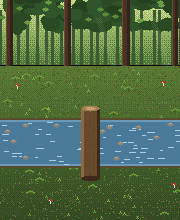
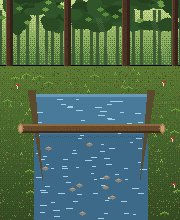
Fight the bridge duel with staffs, both on the log
The duel node can set its fighters' abilities and look; the bridge gives
Robin a staff (strike, staff sweep, defend) and puts him in the front row.
The brook backdrop is redrawn side-on with the log under both fighters, and
battle scenery rises with the units on short phones. Version 0.2.3 (code 7).

Claude-Session: https://claude.ai/code/session_01MmzGffP5XZa1E7ay26sSJ4

diff --git a/tools/make_scenery.py b/tools/make_scenery.py
@@ -486,34 +486,44 @@ def bd_sheriffs_toll_bridge():
 
 
 def bd_brook_bridge():
-    """Where Robin met Little John: a log over a woodland brook."""
+    """Where Robin met Little John: a single great log over a woodland brook, seen from the side.
+    The duellists stand on the log; its top is where the battle screen puts their feet."""
     rng = random.Random(17)
     c = bd_sherwood_edge()
-    # a brook running across the ground, crossed by a single great log
-    for y in range(118, 168):
-        wob = round(math.sin(y / 5) * 2)
-        for x in range(BW):
-            edge = min(y - 118, 167 - y)
-            colour = "#4a7a9a" if edge > 3 else ("#6a9ab8" if edge > 1 else "#5a4a2e")
-            c.px(x + wob * 0, y, colour)
-    for _ in range(70):
-        x, y = rng.randint(0, BW), rng.randint(122, 164)
+    top = 124                 # the log's upper surface, under the fighters' feet
+    left, right = 34, 148     # where the banks fall away to the water
+    # the brook fills the gap between the banks, from just below the far bank to the bottom
+    for y in range(HORIZON + 30, BH):
+        for x in range(left, right):
+            depth = y - (HORIZON + 30)
+            colour = "#6a9ab8" if depth < 3 else ("#4a7a9a" if depth < 40 else "#3e6a8a")
+            c.px(x, y, colour)
+    for _ in range(90):   # ripples
+        x, y = rng.randint(left, right - 6), rng.randint(HORIZON + 34, BH - 2)
         c.rect(x, y, x + rng.randint(2, 6), y, "#a8d0e4")
-    for _ in range(12):   # stones in the water
-        x, y = rng.randint(0, BW), rng.randint(124, 162)
+    for _ in range(10):   # stones in the water
+        x, y = rng.randint(left + 4, right - 4), rng.randint(top + 20, BH - 6)
         c.ellipse(x, y, 3, 2, "#8a8478")
         c.rect(x - 1, y - 1, x + 1, y - 1, "#aaa496")
-    # the log runs from bank to bank, bark lines along its length
-    c.rect(81, 108, 99, 178, "#6a4a2c")
-    c.rect(81, 108, 83, 178, "#8a6a40")
-    c.rect(97, 108, 99, 178, "#3e2a18")
-    for x in range(85, 97, 4):
-        for y in range(110, 177, 2):
-            if rng.random() < 0.6:
+    # earth banks dropping into the water on both sides
+    for y in range(HORIZON + 26, BH):
+        drop = (y - HORIZON - 26) // 6
+        c.rect(left - 6 + drop, y, left + 1 + drop // 2, y, "#5a4a2e")
+        c.rect(right - 1 - drop // 2, y, right + 6 - drop, y, "#5a4a2e")
+    # the log, bank to bank: bark on top, shadowed underside, rings showing at each cut end
+    c.rect(left - 14, top, right + 14, top + 8, "#6a4a2c")
+    c.rect(left - 14, top, right + 14, top + 1, "#8a6a40")
+    c.rect(left - 14, top + 7, right + 14, top + 8, "#3e2a18")
+    for x in range(left - 12, right + 12, 3):
+        for y in range(top + 2, top + 7, 2):
+            if rng.random() < 0.5:
                 c.px(x, y, "#5a3d24")
-    c.ellipse(90, 108, 9, 3, "#a08050")   # cut end, showing the rings
-    c.ellipse(90, 108, 5, 1.5, "#c8a070")
-    c.ellipse(90, 178, 9, 3, "#3e2a18")
+    for end in (left - 14, right + 14):
+        c.ellipse(end, top + 4, 3, 5, "#a08050")
+        c.ellipse(end, top + 4, 1.5, 3, "#c8a070")
+    # its reflection, broken by the current
+    for x in range(left, right, 2):
+        c.px(x, top + 12 + (x // 4) % 2, "#2e5a7a")
     return c
 
 

diff --git a/tools/make_sprites.py b/tools/make_sprites.py
@@ -112,7 +112,7 @@ def sword(s, hx=22, hy=18, blade="#d8dde3"):
     s.px(hx - 1, hy + 1, "#6b3d1e")
 
 
-def robin():
+def robin_body():
     s = Sprite()
     top = humanoid(s, "#e0ac82", "#3f7d3a", "#2d5a29", "#5a4a2a", "#4a2f18", belt="#6b3d1e")
     s.rect(12, top - 1, 19, top + 1, "#3f7d3a")      # hood
@@ -120,9 +120,21 @@ def robin():
     s.rect(14, top - 2, 17, top - 2, "#3f7d3a")
     s.line(17, top - 1, 21, top - 4, "#c0392b")       # red feather
     s.rect(14, top + 6, 18, top + 6, "#8a5a2b")       # short beard
+    return s, top
+
+
+def robin():
+    s, top = robin_body()
     quiver(s, top)
     bow(s)
     return s.save("robin")
+
+
+def robin_staff():
+    """Robin with the oak staff he cut for the bout on the bridge."""
+    s, top = robin_body()
+    staff(s, x=24, y0=2)
+    return s.save("robin_staff")
 
 
 def little_john():
@@ -429,7 +441,7 @@ def king():
     return s.save("king")
 
 
-DRAWERS = [robin, little_john, will, tuck, alan, merry_man, man_at_arms, crossbowman, knight, forester, tax_collector, hound, bishop, guy, sheriff, monk, tradesman, beggar, pirate, king]
+DRAWERS = [robin, robin_staff, little_john, will, tuck, alan, merry_man, man_at_arms, crossbowman, knight, forester, tax_collector, hound, bishop, guy, sheriff, monk, tradesman, beggar, pirate, king]
 
 
 def contact_sheet(images, path, scale=5):
